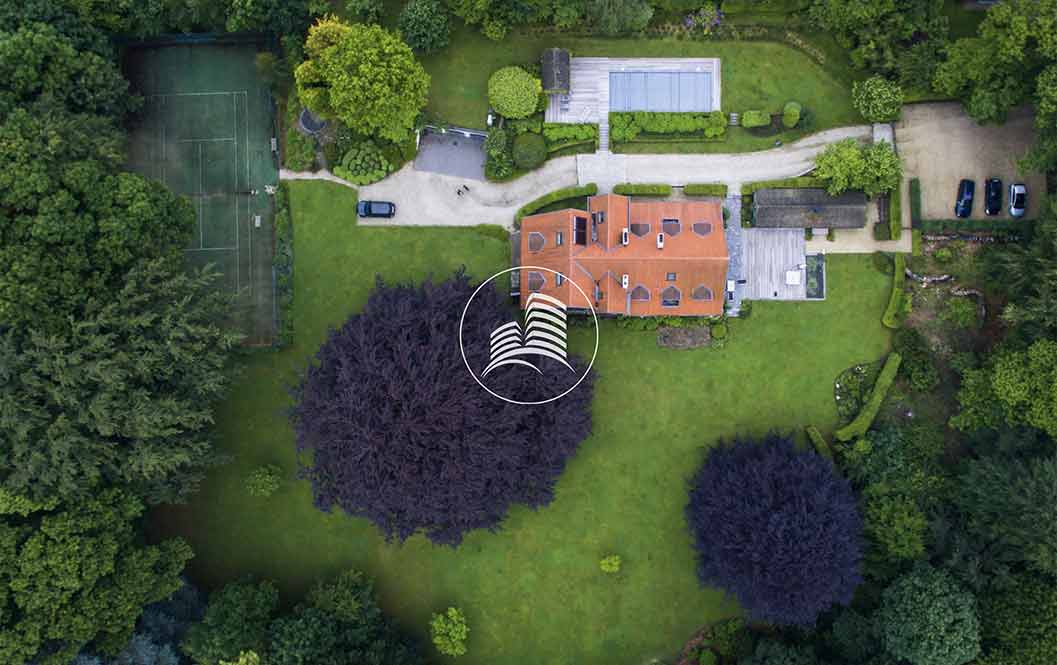
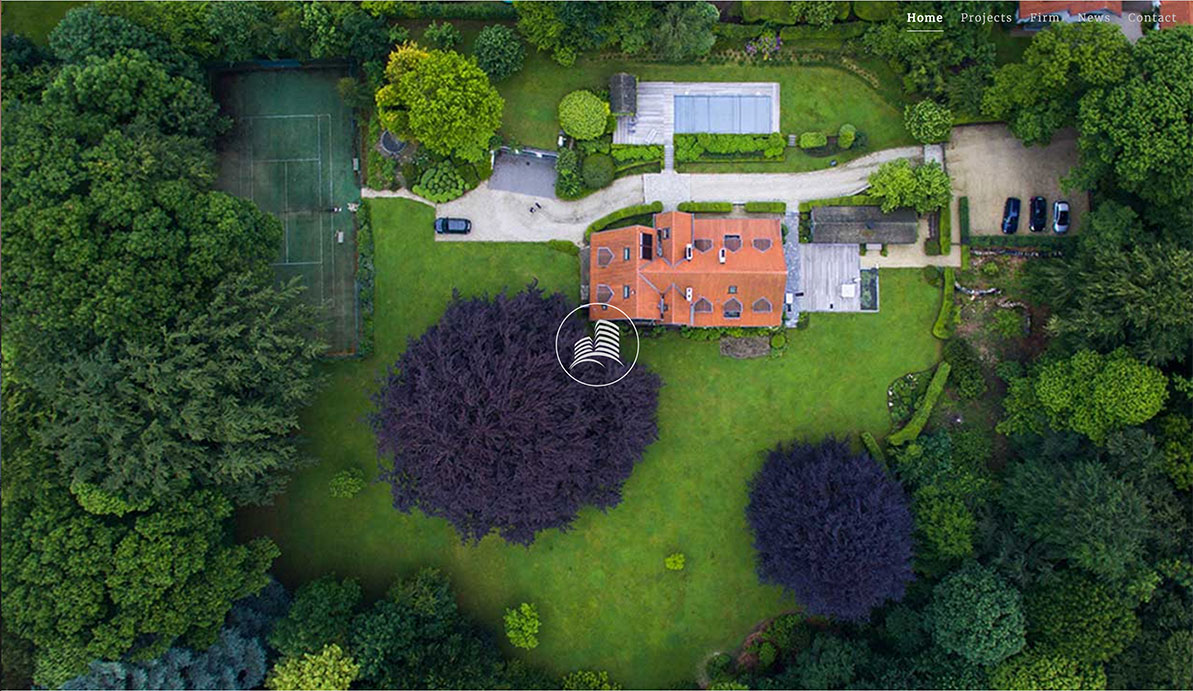
images

diff --git a/nm.min.js b/nm.min.js
@@ -1,1 +1,1 @@
-$(document).ready(function(){$("#startchange");$(".slider").slick({infinite:!0,autoplay:!0,speed:200,fade:!0,centerMode:!0,cssEase:"linear",dots:!1,prevArrow:!1,nextArrow:!1}),$(".slick-container").each(function(){var a=$(this).find("img").attr("src");console.log(a),$(this).css("background-image","url("+a+")")}),$(".c-hamburger").on("click",function(a){a.preventDefault();var b=$("body");$(this).toggleClass("is-active"),$("body").toggleClass("overlay-active"),b.hasClass("home")?($(".overlay").toggleClass("active-home"),$("#logo").toggleClass("logo-white")):$(".overlay").toggleClass("active")}),window.validateEmail=function(a){var b=0,c=null==a?[]:a.split(","),d=/^(([^<>()\[\]\\.,;:\s@"]+(\.[^<>()\[\]\\.,;:\s@"]+)*)|(".+"))@((\[[0-9]{1,3}\.[0-9]{1,3}\.[0-9]{1,3}\.[0-9]{1,3}])|(([a-zA-Z\-0-9]+\.)+[a-zA-Z]{2,}))$/;return $(c).each(function(a,c){d.test(c.trim())||b++}),!(b>0)},$("form").submit(function(a){a.preventDefault();var b=($(this),$("user-email"));if(window.validateEmail(b.val())||!b.prop("required")){b.parent().removeClass("invalid"),$(".error").fadeTo(400,0);return $.ajax({type:"POST",url:"/src/includes/sendForm.php",data:$("#contact-form").serialize(),success:function(a){$("form input").val(""),$("textarea").val(""),$(".contact-message").addClass("visible"),$("body").addClass("submitted")}}),!1}b.parent().addClass("invalid"),$(".error").fadeTo(400,1)}),$(document).on("click",function(){$(".contact-message").removeClass("visible"),$("body").removeClass("submitted")})});
+$(document).ready(function(){$("#startchange");$(".slider").slick({infinite:!0,autoplay:!0,speed:200,fade:!0,centerMode:!0,cssEase:"linear",dots:!1,prevArrow:!1,nextArrow:!1}),$(".slick-container").each(function(){var a=$(this).find("img").attr("src");console.log(a),$(this).css("background-image","url("+a+")")}),$(".c-hamburger").on("click",function(a){a.preventDefault();var b=$("body");$(this).toggleClass("is-active"),$("body").toggleClass("overlay-active"),b.hasClass("home")?($(".overlay").toggleClass("active-home"),$("#logo").toggleClass("logo-white")):$(".overlay").toggleClass("active")}),window.validateEmail=function(a){var b=0,c=null==a?[]:a.split(","),d=/^(([^<>()\[\]\\.,;:\s@"]+(\.[^<>()\[\]\\.,;:\s@"]+)*)|(".+"))@((\[[0-9]{1,3}\.[0-9]{1,3}\.[0-9]{1,3}\.[0-9]{1,3}])|(([a-zA-Z\-0-9]+\.)+[a-zA-Z]{2,}))$/;return $(c).each(function(a,c){d.test(c.trim())||b++}),!(b>0)},$("#contact-form").submit(function(a){a.preventDefault();var b=$(this),c=$("user-email");if(window.validateEmail(c.val())||!c.prop("required")){c.parent().removeClass("invalid"),$(".error").fadeTo(400,0);return $.ajax({type:"POST",url:"/src/includes/sendForm.php",data:$(b).serialize(),success:function(a){$("form input").val(""),$("textarea").val(""),$(".contact-message").addClass("visible"),$("body").addClass("submitted")}}),!1}c.parent().addClass("invalid"),$(".error").fadeTo(400,1)}),$(document).on("click",function(){$(".contact-message").removeClass("visible"),$("body").removeClass("submitted")})});

diff --git a/src/sass/mixin.scss b/src/sass/mixin.scss
@@ -62,12 +62,12 @@
 // media queries
 @mixin min-width($type) {
     @if $type == large {
-        @media (min-width: 980px) { @content; }
+        @media (min-width: 980px + 1) { @content; }
     }
     @if $type == tablet {
-        @media (min-width: 768px)  { @content; }
+        @media (min-width: 768px + 1)  { @content; }
     }
     @else if $type == mobile {
-        @media (min-width: 600px)  { @content; }
+        @media (min-width: 600px + 1)  { @content; }
     }
 }

diff --git a/src/js/nm.js b/src/js/nm.js
@@ -71,7 +71,7 @@ $(document).ready(function() {
 
   //Sending form
 
-  $('form').submit(function(e) {
+  $('#contact-form').submit(function(e) {
 
       e.preventDefault();
 
@@ -89,7 +89,7 @@ $(document).ready(function() {
         $.ajax({
            type: "POST",
            url: url,
-           data: $("#contact-form").serialize(),
+           data: $($form).serialize(),
            success: function(data)
            {
                  $('form input').val('');

diff --git a/index.php b/index.php
@@ -15,16 +15,16 @@
 	<div class="slider-container">
 		<div class="slider">
 			<div class="slick-container">
-				<img class="source" src="src/images/sanisidro.jpg" alt="Wordpress" >
+				<img class="source" src="src/images/slider1.jpg" alt="Wordpress" >
 			</div>
 			<div class="slick-container"> 
-				<img class="source" src="src/images/lead.jpg" alt="tarapoto Resort" >
+				<img class="source" src="src/images/slider2.jpg" alt="tarapoto Resort" >
 			</div>
 			<div class="slick-container"> 
-				<img class="source" src="src/images/brandiscreen.jpg" alt="Brandi Project" >
+				<img class="source" src="src/images/slider3.jpg" alt="Brandi Project" >
 			</div>
 			<div class="slick-container"> 
-				<img class="source" src="src/images/weatherscreen.jpg" alt="Weather App" >
+				<img class="source" src="src/images/slider4.jpg" alt="Weather App" >
 			</div>
 		</div>
 		

diff --git a/projects/index.php b/projects/index.php
@@ -14,7 +14,7 @@
 	<li class="menu-item"><a href="sanisidro">San Isidro Group <i class="demo-icon icon-right"></i></a></li>
 	<li class="menu-item"><a href="tarapoto">Tarapoto Resort <i class="demo-icon icon-right"></i></a> </li>
 	<li class="menu-item"><a href="brandi">Brandi <i class="demo-icon icon-right"></i></a> </li>
-	<li class="menu-item"><a href="weatherapp">Weather App <i class="demo-icon icon-right"></i></a></li>
+	<li class="menu-item"><a href="weather">Weather App <i class="demo-icon icon-right"></i></a></li>
 </ul>
 	
 <p class="paragraph"> Some projects below may have been developed as prototypes or for demonstration purposes.</p>

diff --git a/projects/weather.php b/projects/weather.php
@@ -17,7 +17,7 @@
 <div class="row">
 	
 	<div class="projects-image">
-   		<a href="http://weather.neiljoshua.com/" target="_blank" ><img src="../src/images/weatherscreen.jpg" alt="Weather App" ></a>
+   		<a href="http://weather.neiljoshua.com/" target="_blank" ><img src="../src/images/weather.jpg" alt="Weather App" ></a>
    	</div>	
    	
    	<div class="projects-text">

diff --git a/projects/tarapoto.php b/projects/tarapoto.php
@@ -18,7 +18,7 @@
 <div class="row">
 
 	<div class="projects-image">
-   		<a href="http://tarapoto.neiljoshua.com" target="_blank" ><img src="../src/images/lead.jpg" alt="tarapoto Resort" ></a>
+   		<a href="http://tarapoto.neiljoshua.com" target="_blank" ><img src="../src/images/tarapoto.jpg" alt="tarapoto Resort" ></a>
    	</div>	
 
    	<div class="projects-text">
